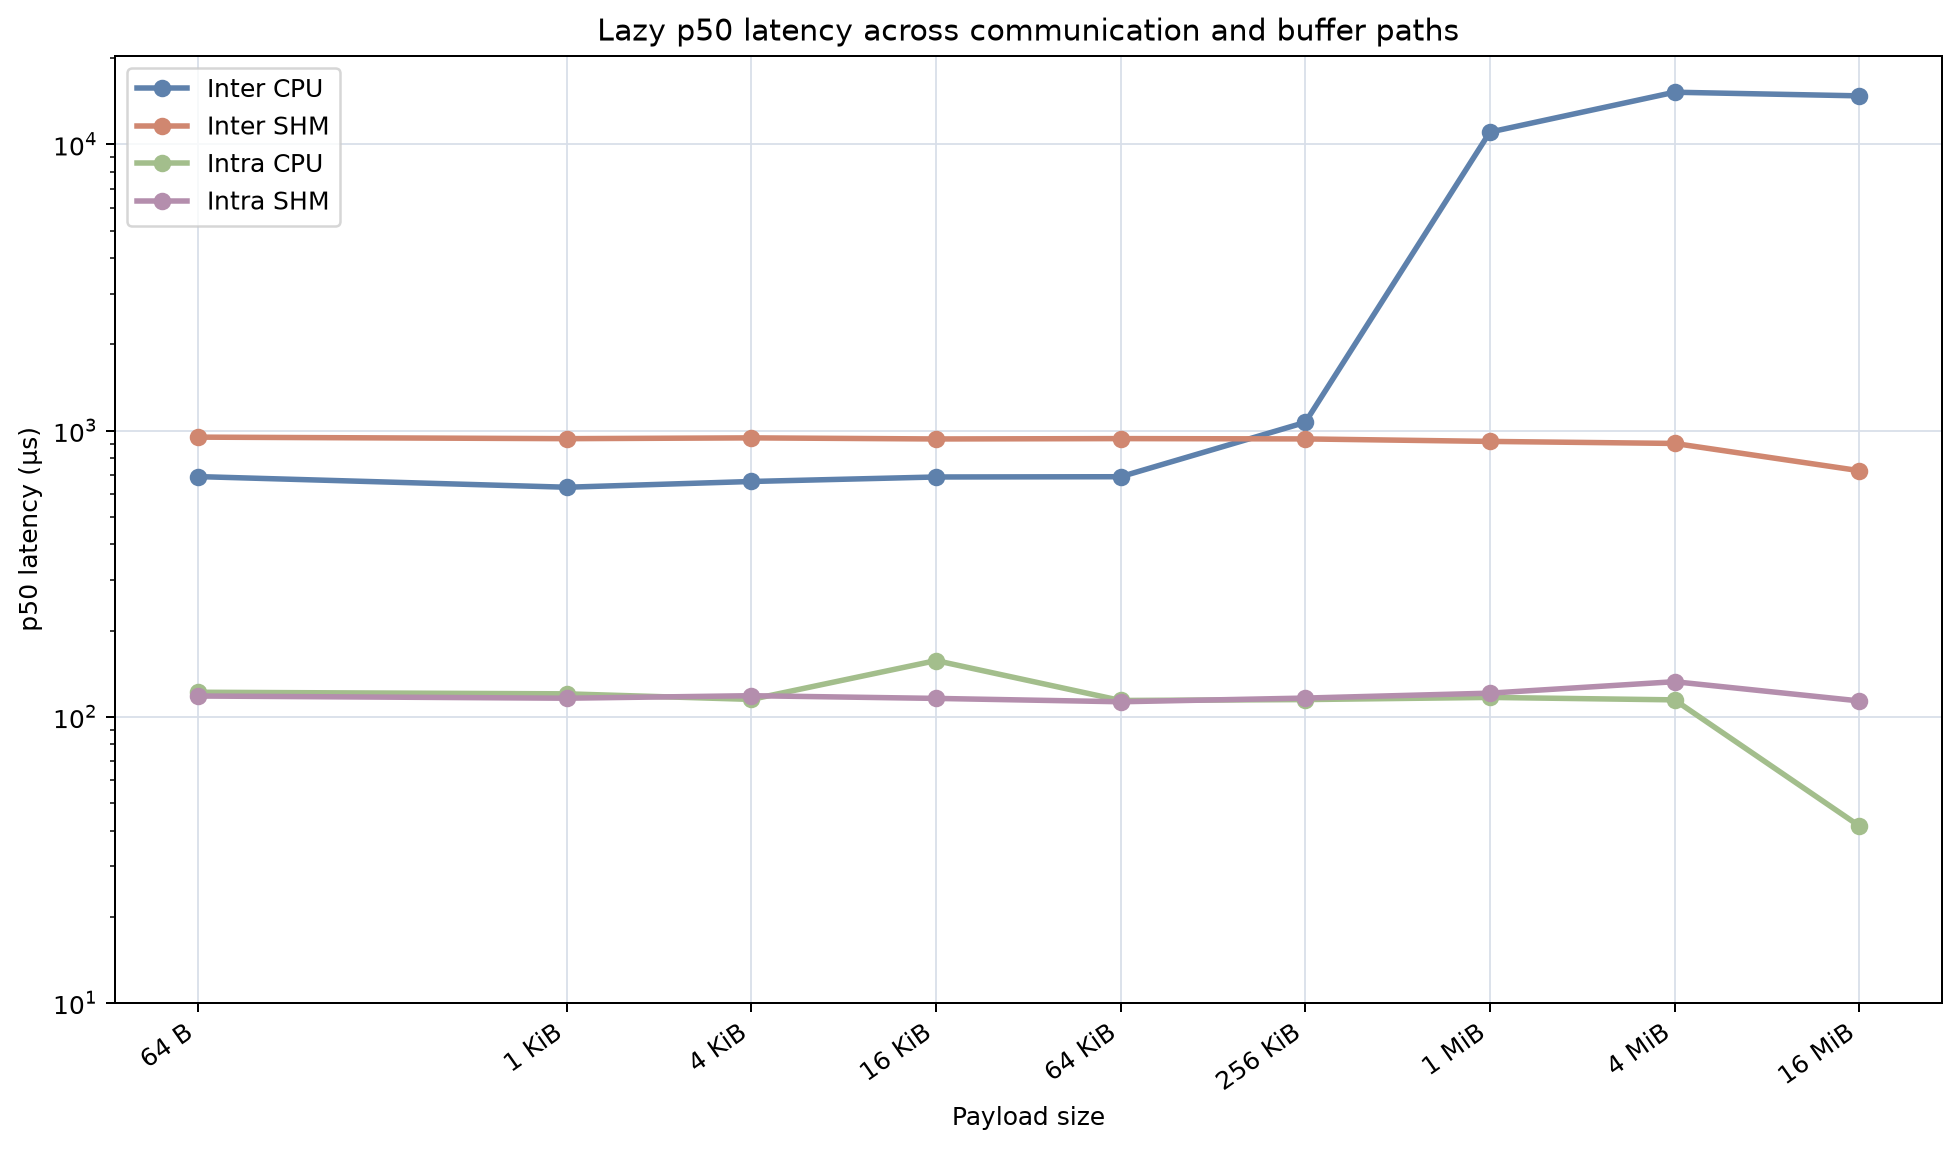
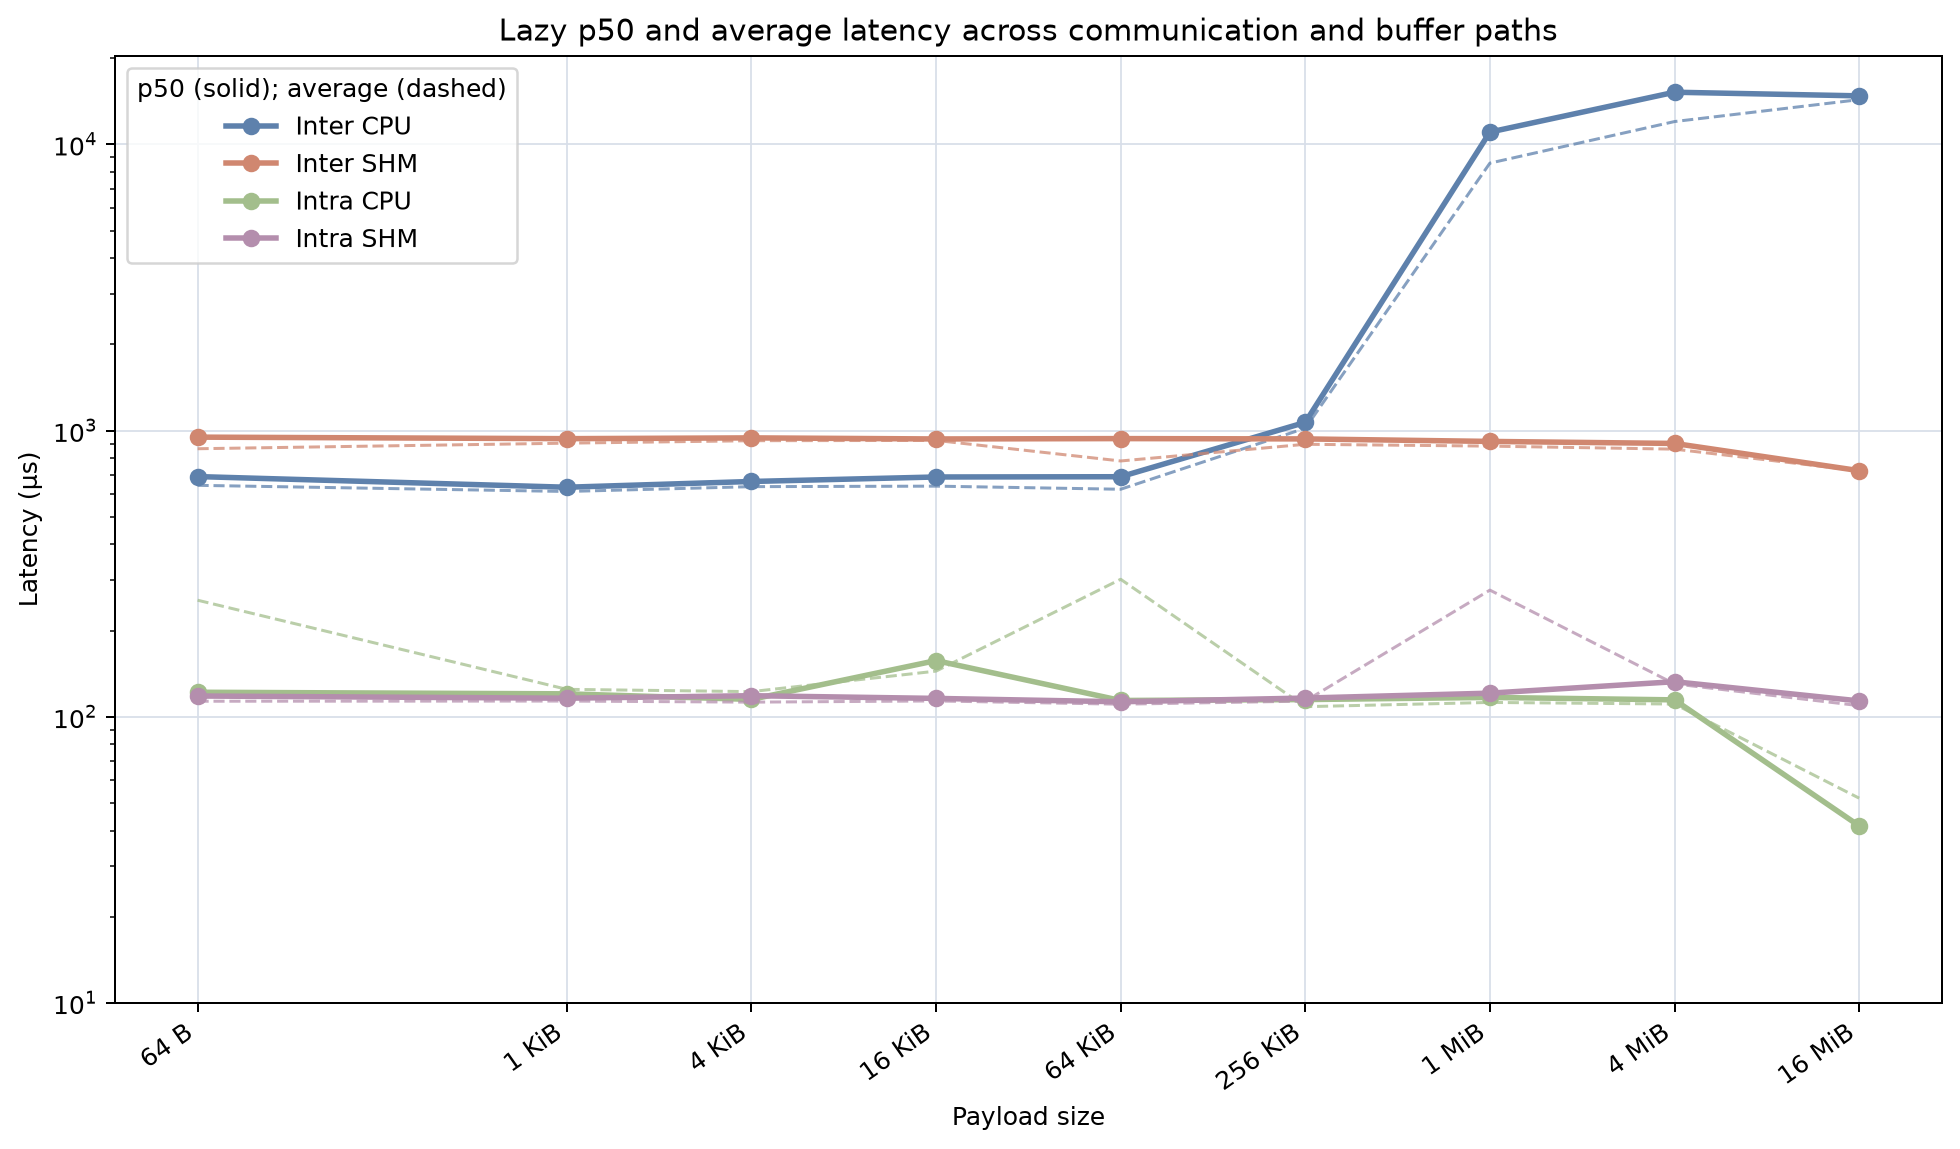
Plot path latency averages alongside p50

diff --git a/tools/plot_benchmark_report.py b/tools/plot_benchmark_report.py
@@ -6,7 +6,7 @@ import csv
 import math
 from collections import defaultdict
 from pathlib import Path
-from statistics import median
+from statistics import mean, median
 
 import matplotlib
 
@@ -113,6 +113,7 @@ def read_raw_results(data_dir):
             )
             values[key].append(
                 {
+                    "repeat": int(row["repeat"]),
                     "publish_duration_us": int(row["publish_duration_ns"]) / 1000.0,
                     "e2e_latency_us": int(row["e2e_latency_ns"]) / 1000.0,
                 }
@@ -214,23 +215,43 @@ def save_figure(figure, output_dir, name):
     plt.close(figure)
 
 
-def plot_variant_paths(results, output_dir, variant):
+def raw_average_series(raw_results, variant, communication, backend):
+    return [
+        mean(
+            row["e2e_latency_us"]
+            for row in raw_results[(variant, communication, backend, size)]
+        )
+        for size in SIZES
+    ]
+
+
+def plot_variant_paths(results, raw_results, output_dir, variant):
     figure, axis = plt.subplots(figsize=(11, 6.5))
     for communication, backend, title in PATHS:
         p50 = series(results, variant, communication, backend, "p50_us")
+        average = raw_average_series(raw_results, variant, communication, backend)
+        color = PATH_COLORS[title]
         axis.plot(
-            SIZES, p50, marker="o", linewidth=2.2, color=PATH_COLORS[title],
+            SIZES, p50, marker="o", linewidth=2.2, color=color,
             label=title
+        )
+        axis.plot(
+            SIZES,
+            average,
+            linestyle="--",
+            linewidth=1.2,
+            alpha=0.75,
+            color=color,
         )
     configure_axis(axis)
     axis.set_yscale("log")
     axis.set_ylim(bottom=10)
     axis.set_xlabel("Payload size")
-    axis.set_ylabel("p50 latency (µs)")
+    axis.set_ylabel("Latency (µs)")
     axis.set_title(
-        f"{VARIANT_LABELS[variant].capitalize()} p50 latency across communication and buffer paths"
+        f"{VARIANT_LABELS[variant].capitalize()} p50 and average latency across communication and buffer paths"
     )
-    axis.legend(frameon=True)
+    axis.legend(title="p50 (solid); average (dashed)", frameon=True)
     figure.tight_layout()
     save_figure(figure, output_dir, f"{variant}-path-latency")
 
@@ -291,7 +312,7 @@ def main():
         "axes.facecolor": "#FFFFFF",
     })
     for variant in VARIANTS:
-        plot_variant_paths(results, args.output_dir, variant)
+        plot_variant_paths(results, raw_results, args.output_dir, variant)
     plot_inter_variant_comparison(
         results, args.output_dir, "memfd", "SHM", "inter-shm-variant-comparison"
     )

diff --git a/BENCHMARK_REPORT.md b/BENCHMARK_REPORT.md
@@ -71,7 +71,11 @@ be interpreted as proof of a payload-sized copy on the SHM wire path.
 
 ![Baseline latency across the four communication and buffer paths](./figures/baseline-path-latency.png)
 
-The same four-path p50 view is also available for each patched variant:
+The same four-path p50 and average view is also available for each patched
+variant. Solid lines are the median across five repeat-level p50 values;
+dashed lines are the arithmetic average across all 100 raw samples for each
+size/path case. The average is included because the inter-process CPU path is
+clearly bimodal.
 
 - [`unique_ptr`](./figures/unique_ptr-path-latency.png)
 - [`lazy`](./figures/lazy-path-latency.png)
